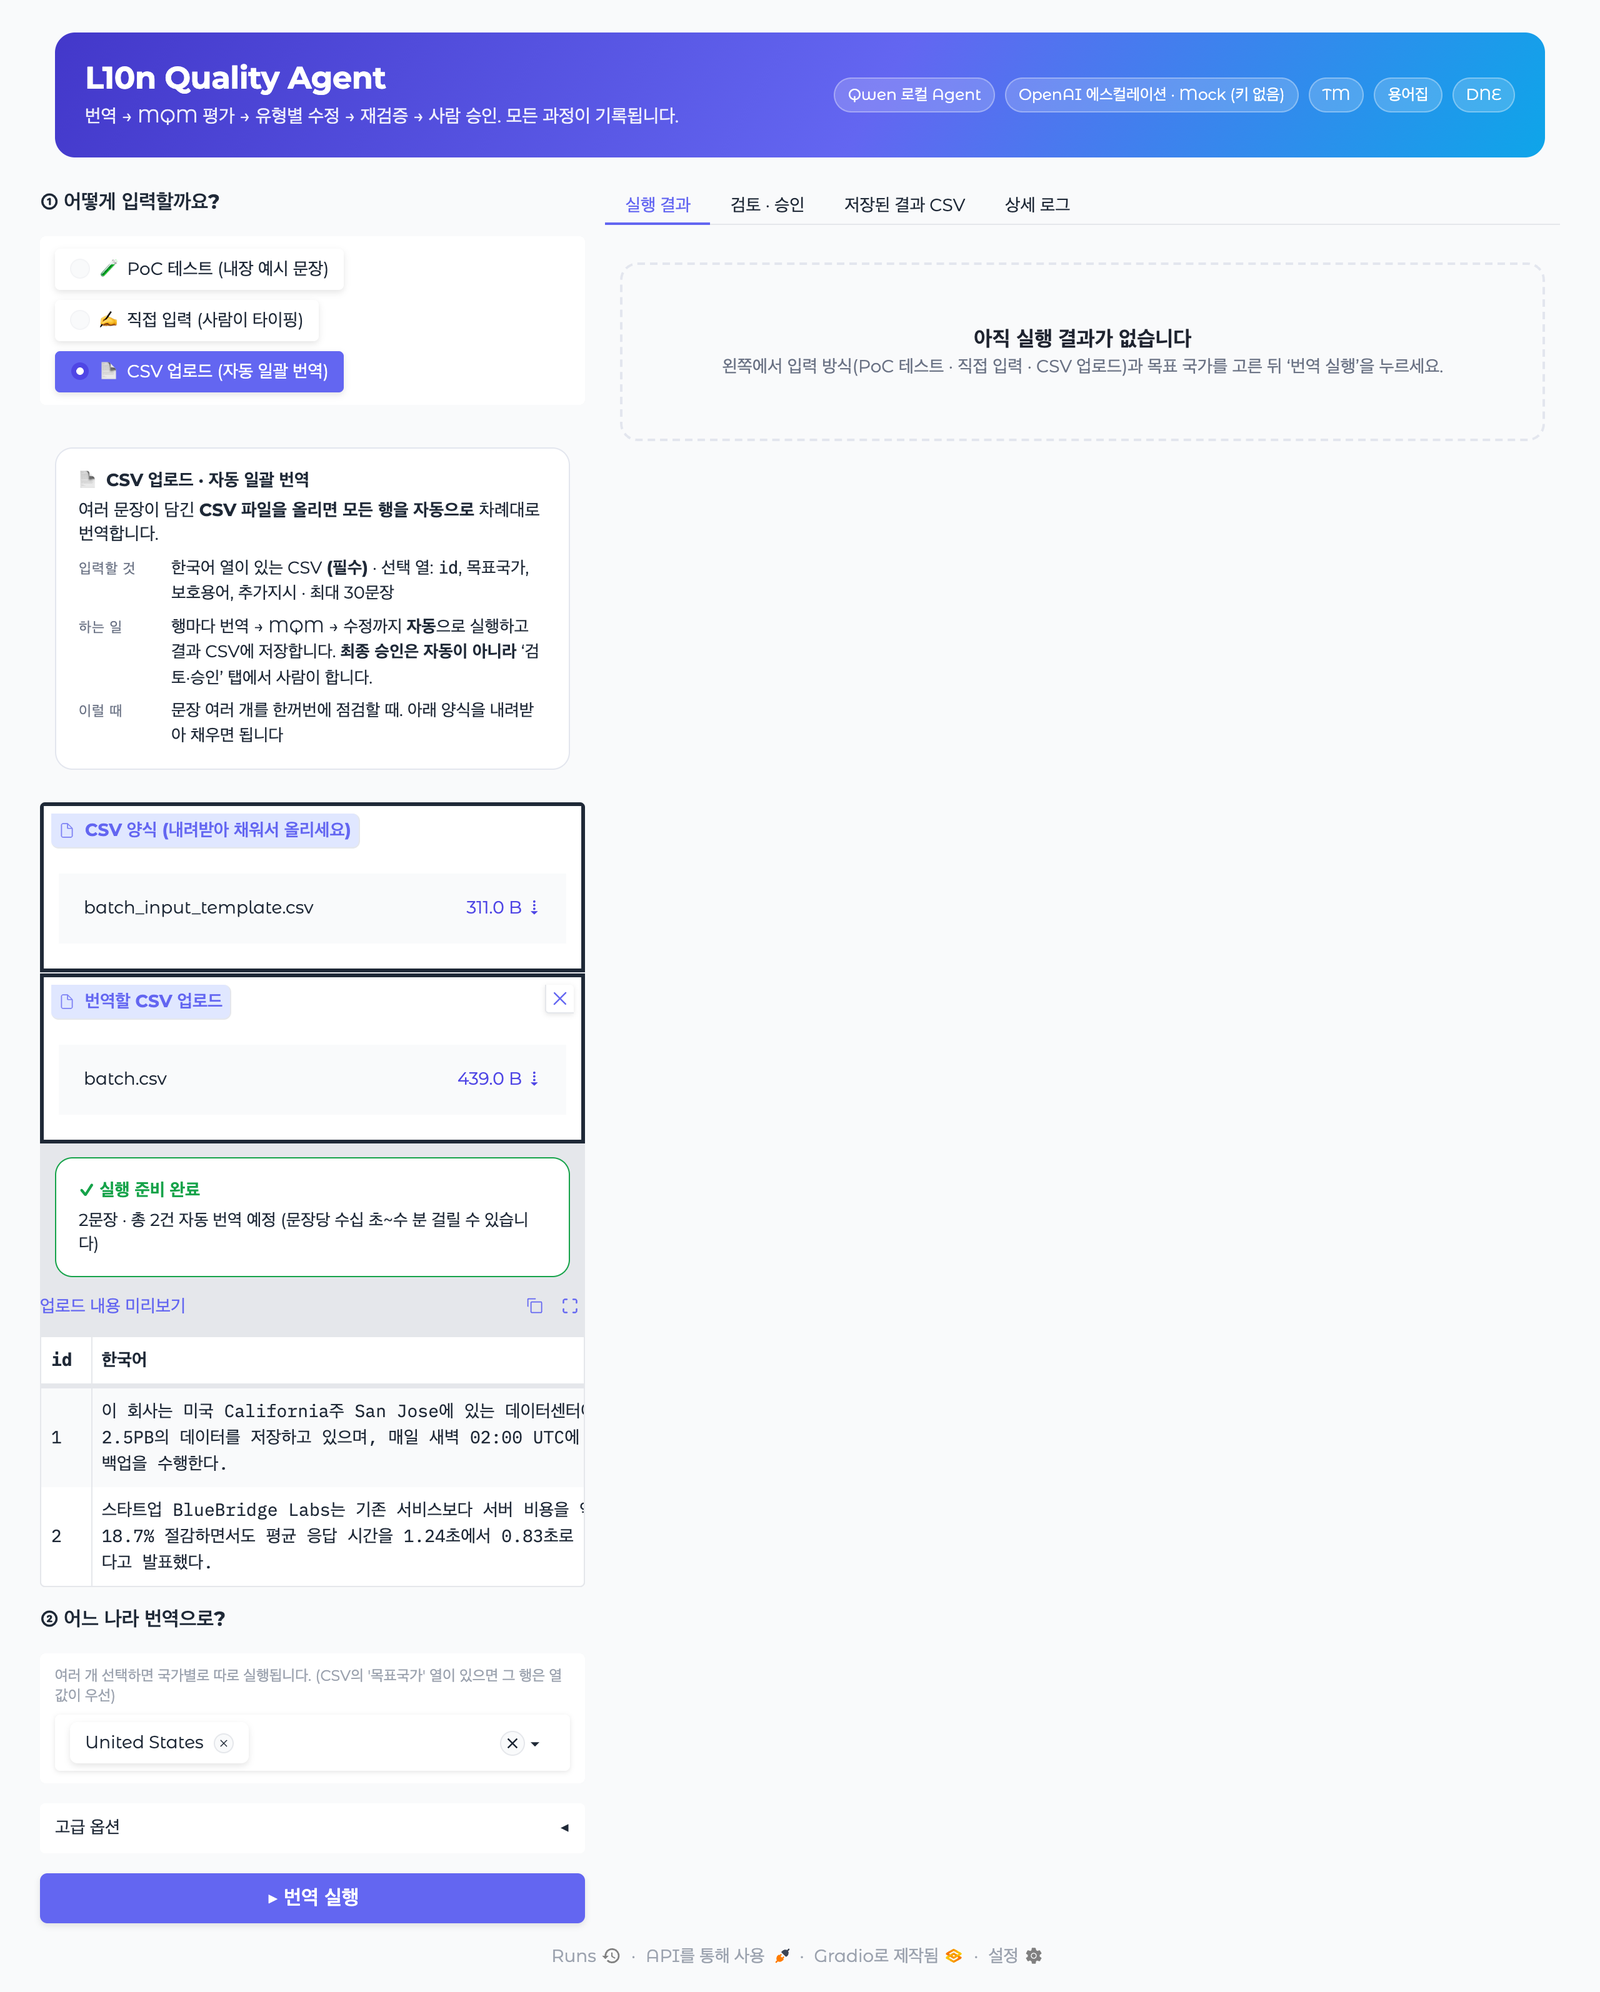
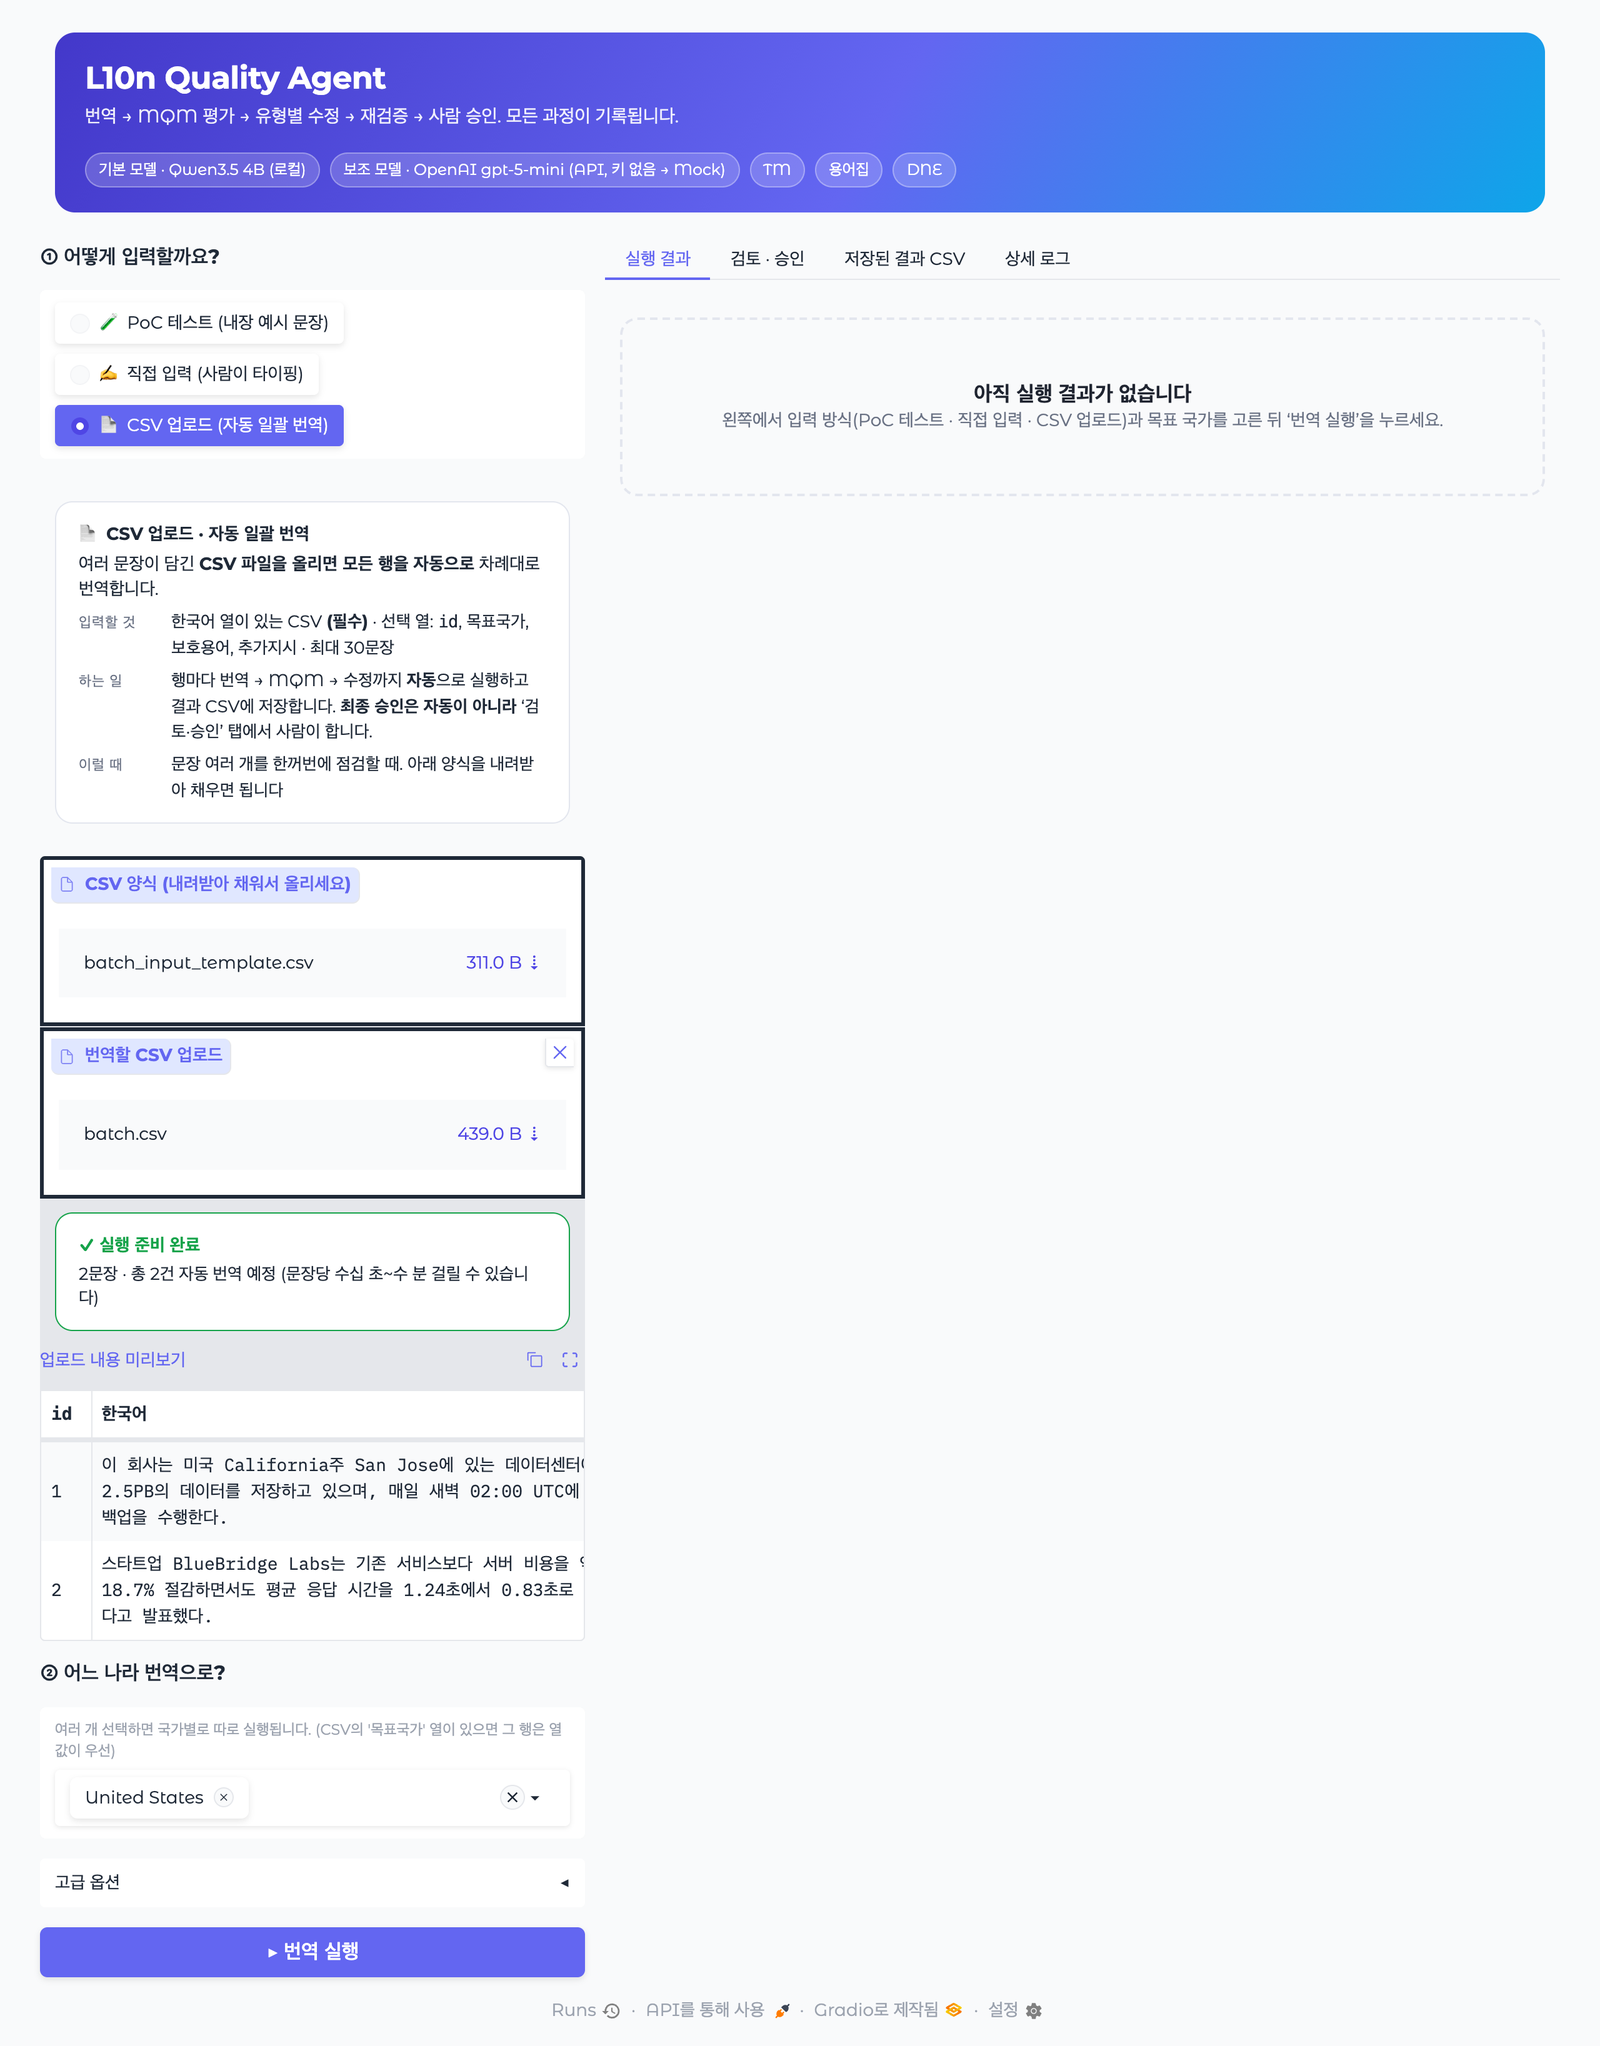
UI: unify model labels as "model (where it runs, state)"
- One naming rule everywhere: "Qwen3.5 4B (로컬)" and "OpenAI gpt-5-mini (API, 키 있음 | 키 없음 → Mock)"
- Hero badges now say 기본 모델 / 보조 모델; fallback checkbox, AI re-revise radio and run log use the same labels
- Recapture README screenshots with the new labels

diff --git a/l10n_quality_agent/ui.py b/l10n_quality_agent/ui.py
@@ -20,7 +20,7 @@ import pandas as pd
 from .agent import OpenAIAgentMock, QwenAgent
 from .config import COUNTRY_LANGUAGE, FLORES_PROCESSED_DIR
 from .dne import DoNotEditList, default_dne_path
-from .openai_agent import OpenAIAgent, is_openai_configured, openai_user_revise
+from .openai_agent import OPENAI_MODEL_NAME, OpenAIAgent, is_openai_configured, openai_user_revise
 from .presentation import format_record
 from .resources import apply_resources
 from .results_csv import FIELDS, RESULTS_CSV, SOURCE_CSV, save_result
@@ -44,6 +44,16 @@ from .ui_render import (
 from .workflow import QualityWorkflow
 
 COUNTRIES = list(COUNTRY_LANGUAGE)
+
+# 화면의 모델 이름은 모두 '모델명 (실행 위치[, 상태])' 한 규칙으로 쓴다.
+# 키가 없으면 OpenAI는 실제 호출 없이 모의(Mock) 응답으로 대체된다.
+QWEN_LABEL = "Qwen3.5 4B (로컬)"
+
+
+def openai_label() -> str:
+    state = "키 있음" if is_openai_configured() else "키 없음 → Mock"
+    return f"OpenAI {OPENAI_MODEL_NAME} (API, {state})"
+
 SAMPLE_SENTENCES_FILE = FLORES_PROCESSED_DIR / "evaluation_30.csv"
 
 
@@ -259,8 +269,7 @@ def run_translation(
 
         if record.status == AgentStatus.HUMAN_REVIEW_REQUIRED and use_openai:
             escalation = OpenAIAgent(workflow.chains) if is_openai_configured() else OpenAIAgentMock()
-            openai_tag = "실제 실행" if is_openai_configured() else "Mock, 키 없음"
-            country_steps.append(tag(f"--- Qwen Agent도 실패 → OpenAI Agent 개입 ({openai_tag}) ---"))
+            country_steps.append(tag(f"--- {QWEN_LABEL} 실패 → {openai_label()}로 재시도 ---"))
             record = escalation.run(record, progress_callback=lambda msg: country_steps.append(tag(msg)))
             workflow.store.save(record)
 
@@ -585,9 +594,8 @@ def _resource_badges() -> list[str]:
 
 
 def build_app() -> gr.Blocks:
-    openai_tag = "실제 실행" if is_openai_configured() else "Mock, 키 없음"
     with gr.Blocks(title="L10n Quality Agent") as app:
-        gr.HTML(render_hero(openai_tag, _resource_badges()))
+        gr.HTML(render_hero(QWEN_LABEL, openai_label(), _resource_badges()))
         run_map = gr.State({})
 
         with gr.Row(equal_height=False):
@@ -641,7 +649,9 @@ def build_app() -> gr.Blocks:
                 )
                 with gr.Accordion("고급 옵션", open=False):
                     use_openai = gr.Checkbox(
-                        value=False, label=f"Qwen이 실패하면 OpenAI Agent 개입 ({openai_tag})"
+                        value=False,
+                        label=f"{QWEN_LABEL}가 실패하면 {openai_label()}로 재시도",
+                        info="끄면 Qwen이 실패했을 때 바로 '사람 검토 필요'로 넘어갑니다",
                     )
                     results_path = gr.Textbox(
                         value=str(RESULTS_CSV), label="결과 저장 파일", interactive=False
@@ -669,9 +679,9 @@ def build_app() -> gr.Blocks:
                                     label="선택 버전에 대한 추가 수정 지시", lines=2
                                 )
                                 model_choice = gr.Radio(
-                                    ["Qwen (로컬, 실제 실행)", f"OpenAI ({openai_tag})"],
-                                    value="Qwen (로컬, 실제 실행)",
-                                    label="모델 선택",
+                                    [QWEN_LABEL, openai_label()],
+                                    value=QWEN_LABEL,
+                                    label="AI 재수정에 사용할 모델",
                                 )
                                 ai_revise_button = gr.Button("AI 재수정 실행")
                         with gr.Row():

diff --git a/tests/test_ui.py b/tests/test_ui.py
@@ -234,7 +234,12 @@ def test_mode_guide_states_input_and_intent():
         assert needle in html and "입력할 것" in html and "이럴 때" in html
 
 
-def test_hero_openai_badge_says_key_state_not_that_openai_ran():
+def test_model_labels_follow_one_naming_rule(monkeypatch):
     from l10n_quality_agent.ui_render import render_hero
-    assert "Mock (키 없음)" in render_hero("Mock, 키 없음", [])
-    assert "API 키 설정됨" in render_hero("실제 실행", []) and "실제 실행" not in render_hero("실제 실행", [])
+    monkeypatch.setattr(ui, "is_openai_configured", lambda: False)
+    assert ui.openai_label() == "OpenAI gpt-5-mini (API, 키 없음 → Mock)"
+    monkeypatch.setattr(ui, "is_openai_configured", lambda: True)
+    assert ui.openai_label() == "OpenAI gpt-5-mini (API, 키 있음)"
+    html = render_hero(ui.QWEN_LABEL, ui.openai_label(), [])
+    assert "기본 모델 · Qwen3.5 4B (로컬)" in html and "보조 모델 · OpenAI gpt-5-mini (API, 키 있음)" in html
+    assert ui.openai_label().startswith("OpenAI")  # ai_revise가 startswith("OpenAI")로 분기한다

diff --git a/l10n_quality_agent/ui_render.py b/l10n_quality_agent/ui_render.py
@@ -262,10 +262,9 @@ def render_status_stats(statuses: list[str]) -> str:
     return f'<div class="lq-stats">{chips}</div>' if chips else ""
 
 
-def render_hero(openai_tag: str, resources: list[str]) -> str:
-    # openai_tag는 '키가 설정돼 있는지'만 알려준다. 실제 호출 여부가 아니므로 문구로 구분한다.
-    openai_badge = "OpenAI 에스컬레이션 · API 키 설정됨 (선택 시 사용)" if openai_tag.startswith("실제") else "OpenAI 에스컬레이션 · Mock (키 없음)"
-    badges = ["Qwen 로컬 Agent", openai_badge] + resources
+def render_hero(qwen_label: str, openai_label: str, resources: list[str]) -> str:
+    """모델 라벨은 '모델명 (실행 위치, 상태)' 규칙으로 ui.py에서 만들어 넘긴다."""
+    badges = [f"기본 모델 · {qwen_label}", f"보조 모델 · {openai_label}"] + resources
     chips = "".join(f'<span class="lq-badge">{escape(item)}</span>' for item in badges)
     return (
         '<div class="lq-hero"><div><h1>L10n Quality Agent</h1>'
